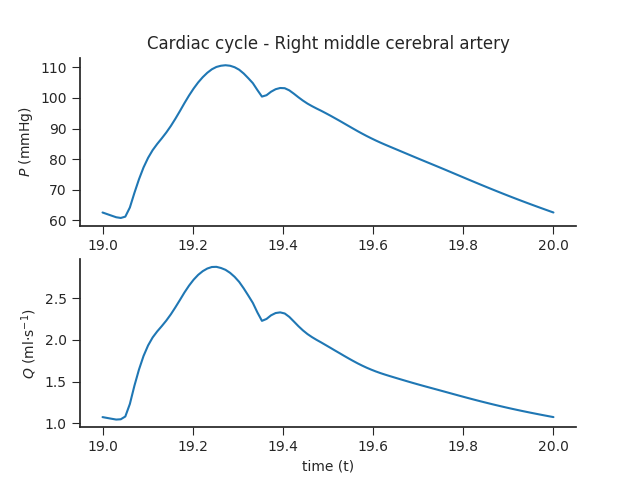
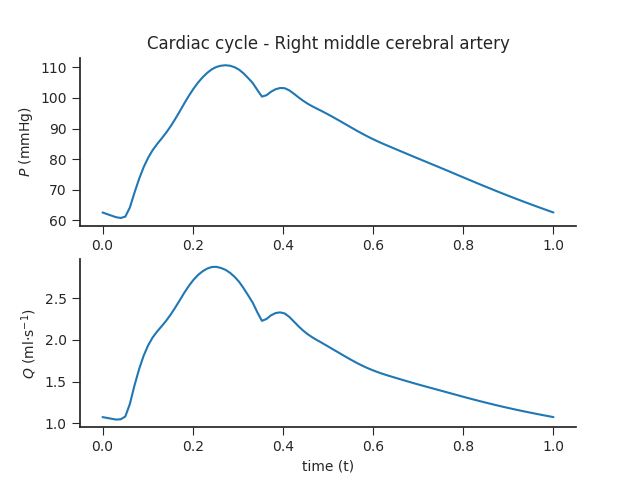
Fix time ticks

diff --git a/models/alastruey2007modelling/plot.py b/models/alastruey2007modelling/plot.py
@@ -25,7 +25,7 @@ for axs, ext, title in zip([[ax1, ax2], [ax3, ax4]], [".last", ".out"], titles):
 
         w = np.loadtxt("{0}{1}{2}".format(a_name, q, ext))
 
-        if title == "Cardiac cycle":
+        if "Cardiac cycle" in title:
             w[:,0] -= w[0,0]
 
         ax.plot(w[:,0], w[:,3]/m)

diff --git a/models/boilleau2015benchmark/adan56/plot.py b/models/boilleau2015benchmark/adan56/plot.py
@@ -25,7 +25,7 @@ for axs, ext, title in zip([[ax1, ax2], [ax3, ax4]], [".last", ".out"], titles):
 
         w = np.loadtxt("{0}{1}{2}".format(a_name, q, ext))
 
-        if title == "Cardiac cycle":
+        if "Cardiac cycle" in title:
             w[:,0] -= w[0,0]
 
         ax.plot(w[:,0], w[:,3]/m)

diff --git a/models/boilleau2015benchmark/aorta/plot.py b/models/boilleau2015benchmark/aorta/plot.py
@@ -25,7 +25,7 @@ for axs, ext, title in zip([[ax1, ax2], [ax3, ax4]], [".last", ".out"], titles):
 
         w = np.loadtxt("{0}{1}{2}".format(a_name, q, ext))
 
-        if title == "Cardiac cycle":
+        if "Cardiac cycle" in title:
             w[:,0] -= w[0,0]
 
         ax.plot(w[:,0], w[:,3]/m)

diff --git a/models/boilleau2015benchmark/common_carotid/plot.py b/models/boilleau2015benchmark/common_carotid/plot.py
@@ -25,7 +25,7 @@ for axs, ext, title in zip([[ax1, ax2], [ax3, ax4]], [".last", ".out"], titles):
 
         w = np.loadtxt("{0}{1}{2}".format(a_name, q, ext))
 
-        if title == "Cardiac cycle":
+        if "Cardiac cycle" in title:
             w[:,0] -= w[0,0]
 
         ax.plot(w[:,0], w[:,3]/m)

diff --git a/models/boilleau2015benchmark/iliac_bifurcation/plot.py b/models/boilleau2015benchmark/iliac_bifurcation/plot.py
@@ -24,7 +24,7 @@ for axs, ext, title in zip([[ax1, ax2], [ax3, ax4]], [".last", ".out"], titles):
 
         w = np.loadtxt("{0}{1}{2}".format(a_name, q, ext))
 
-        if title == "Cardiac cycle":
+        if "Cardiac cycle" in title:
             w[:,0] -= w[0,0]
 
         ax.plot(w[:,0], w[:,3]/m)

diff --git a/models/matthys2007pulse/plot.py b/models/matthys2007pulse/plot.py
@@ -26,7 +26,7 @@ for axs, ext, title in zip([[ax1, ax2], [ax3, ax4]], [".last", ".out"], titles):
 
         w = np.loadtxt("{0}{1}{2}".format(a_name, q, ext))
 
-        if title == "Cardiac cycle":
+        if "Cardiac cycle" in title:
             w[:,0] -= w[0,0]
 
         ax.plot(w[:,0], w[:,3]/m)
